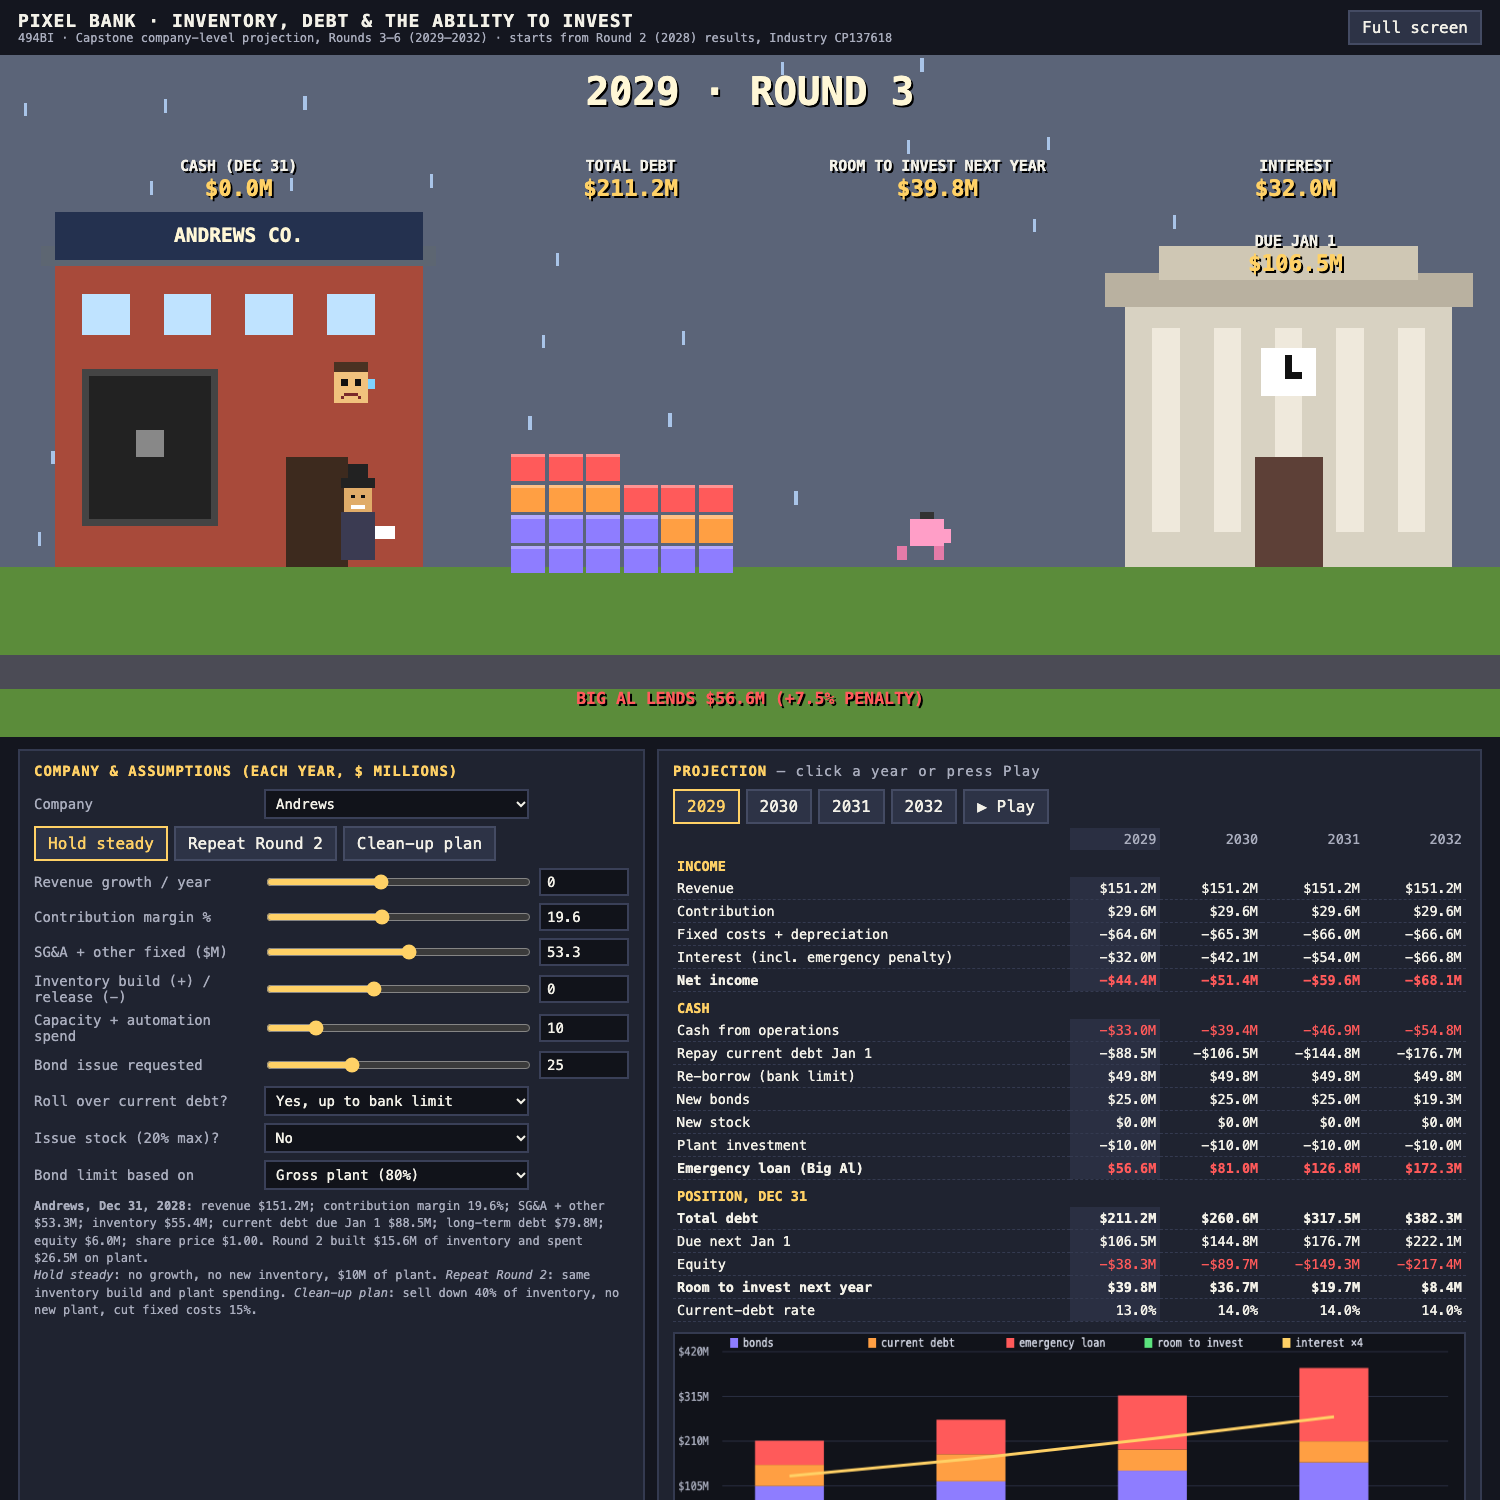
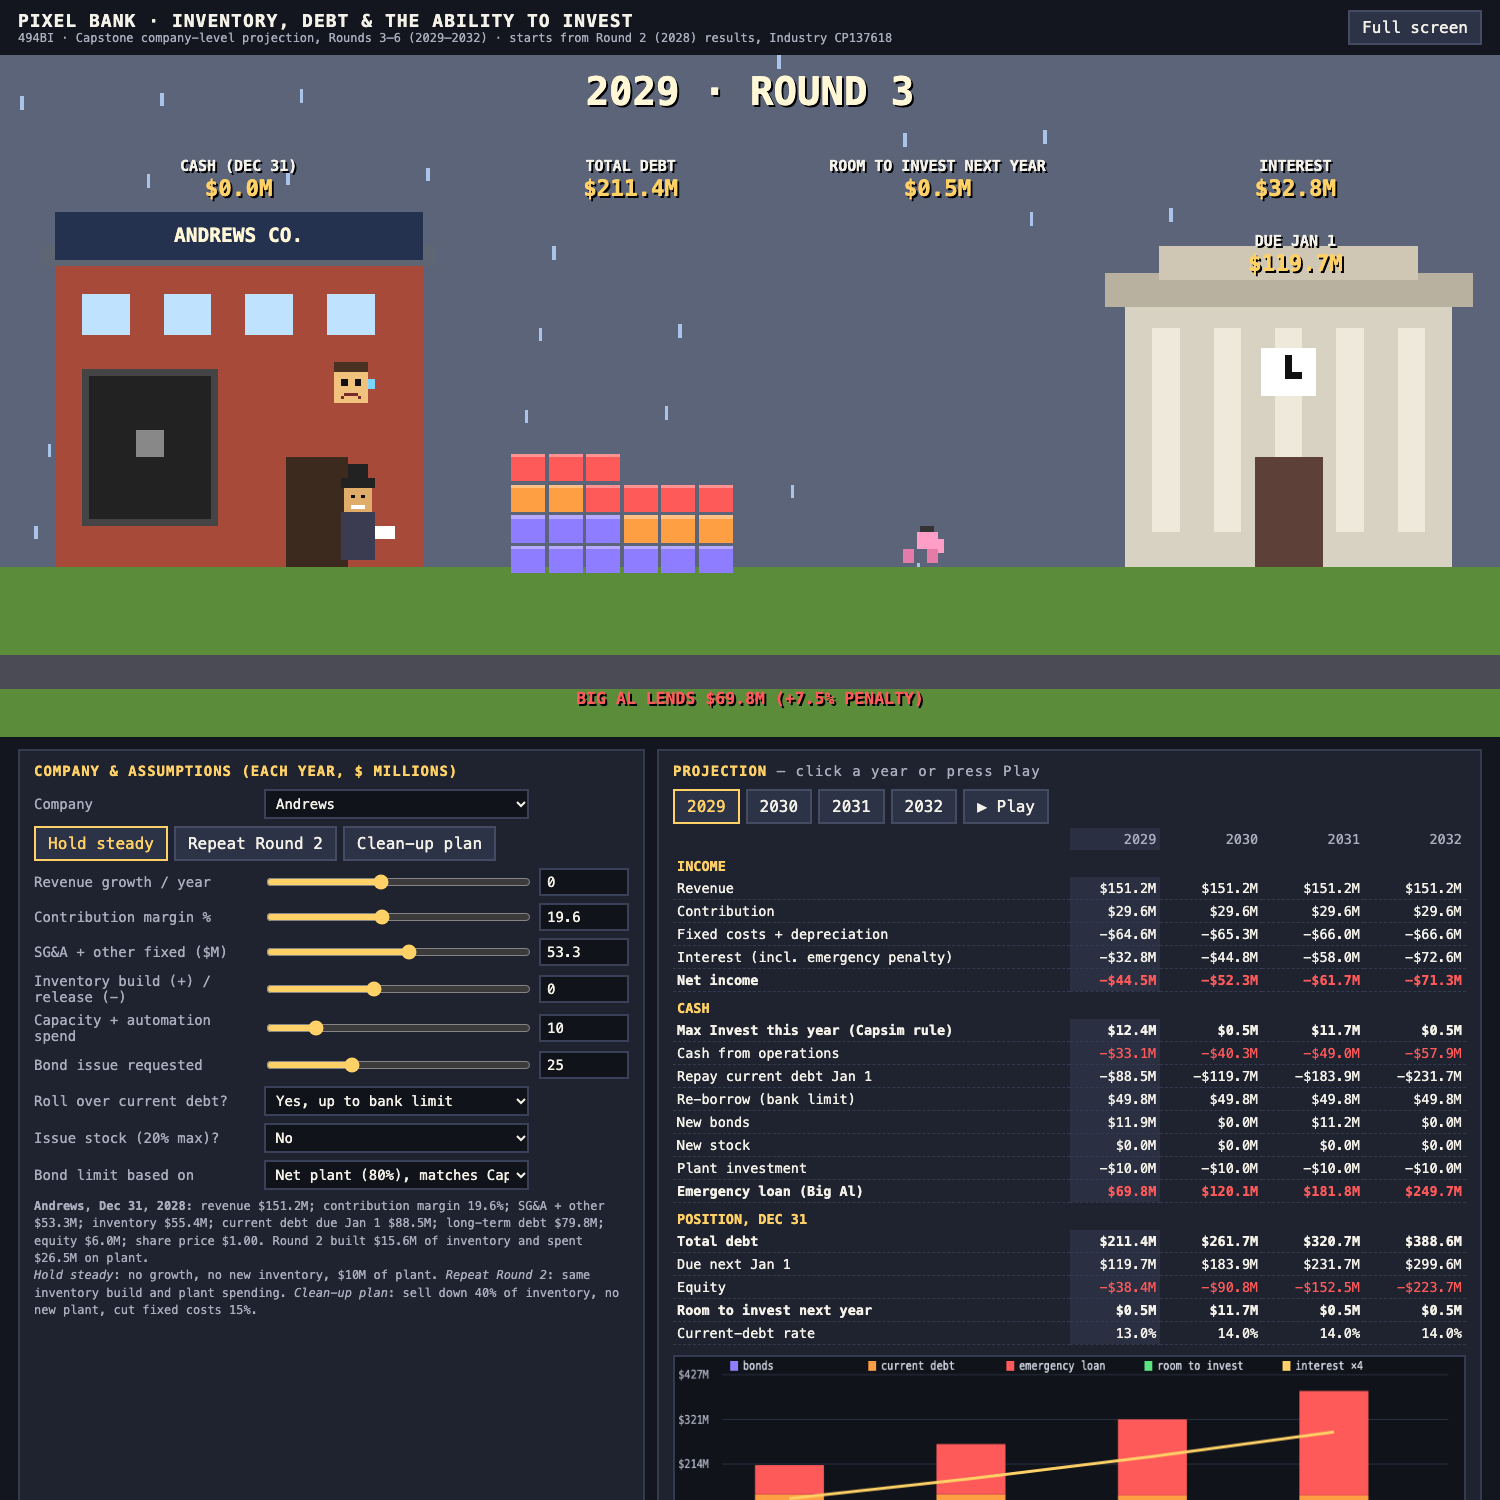
Calibrate Big Al Comes Calling to Capsim Max Invest (net plant basis)

diff --git a/capstone/graphic-simulations/big-al-comes-calling.html b/capstone/graphic-simulations/big-al-comes-calling.html
@@ -74,7 +74,7 @@
     <div class="row"><label>Bond issue requested</label><input type="range" id="bondR" min="0" max="80" step="0.5"><input type="number" id="bond" step="0.5"></div>
     <div class="row"><label>Roll over current debt?</label><select id="roll"><option value="1">Yes, up to bank limit</option><option value="0">No, repay from cash</option></select><span></span></div>
     <div class="row"><label>Issue stock (20% max)?</label><select id="stock"><option value="0">No</option><option value="1">Yes, maximum</option></select><span></span></div>
-    <div class="row"><label>Bond limit based on</label><select id="basis"><option value="gross">Gross plant (80%)</option><option value="net">Net plant (80%)</option></select><span></span></div>
+    <div class="row"><label>Bond limit based on</label><select id="basis"><option value="net">Net plant (80%), matches Capsim</option><option value="gross">Gross plant (80%)</option></select><span></span></div>
     <div class="note" id="startNote"></div>
   </div>
   <div class="card">
@@ -83,8 +83,8 @@
     <table id="tbl"></table>
     <canvas id="chart" width="1000" height="230"></canvas>
     <div class="note">
-      Rules from the Capstone guides: current debt (including any emergency loan) is due January 1; banks lend about 75% of receivables plus 15% of last year's labor and material, plus 20%; bonds up to 80% of plant and equipment (the guide does not say gross or net, so you can toggle), at the current-debt rate + 1.4%; stock issues up to 20% of shares at the current price, less a 5% fee; an emergency loan costs a year of current-debt interest plus a 7.5% penalty and joins next year's current debt. Bond 12.5S2030 ($13.9M) matures December 31, 2030 and becomes current debt.<br>
-      Illustrative simplifications: current-debt rate = 8% prime + up to 6% as debt/assets rises; existing bonds average 12.9%; taxes 35% (credited on losses, as in the Courier); receivable and payable days held at Round 2 levels; share price held at Round 2's close. "Room to invest" = bond room + stock room + cash on hand, an estimate of Capstone's Max Invest, which the decision screen reports exactly.
+      Rules from the Capstone guides: current debt (including any emergency loan) is due January 1; banks lend about 75% of receivables plus 15% of last year's labor and material, plus 20%; bonds up to 80% of plant and equipment net of depreciation, at the current-debt rate + 1.4%; stock issues up to 20% of shares at the current price, less a 5% fee; an emergency loan costs a year of current-debt interest plus a 7.5% penalty and joins next year's current debt. Bond 12.5S2030 ($13.9M) matures December 31, 2030 and becomes current debt.<br>
+      Illustrative simplifications: current-debt rate = 8% prime + up to 6% as debt/assets rises; existing bonds average 12.9%; taxes 35% (credited on losses, as in the Courier); receivable and payable days held at Round 2 levels; share price held at Round 2's close. "Room to invest" follows Capstone's Max Invest: 80% of net plant − long-term debt + 20% of shares × share price + cash on hand. Checked against the Capsim decision screen: Andrews' Round 3 Max Investments shows $12,408K, and 0.8 × $114,623K − $79,750K + 0.2 × 2,297K shares × $1.00 = $12,408K.
     </div>
   </div>
 </div>
@@ -148,6 +148,7 @@ function run() {
     const newBond = Math.min(A.bond, bondRoom) / 1.0;                 // face value; 5% fee expensed below
     const stockRoom = 0.2 * st.shares * s.price * 0.95;
     const newStock = A.stock ? stockRoom : 0;
+    const maxInvest = bondRoom + 0.2 * st.shares * s.price + Math.max(0, st.cash);
     const rev = st.rev * (1 + A.g), vc = rev * (1 - A.cm), dep = st.pe / 15;
     const dInv = Math.max(-st.inv, A.dinv);
     const ar = rev * arDays / 365, ap = vc * apDays / 365;
@@ -170,9 +171,9 @@ function run() {
     const pe = st.pe + A.capex, ad = st.ad + dep, inv = st.inv + dInv, eq = st.eq + ni + newStock;
     const shares = st.shares * (A.stock ? 1.2 : 1);
     const nextBondRoom = Math.max(0, 0.8 * (A.gross ? pe : pe - ad) - ltd);
-    const investRoom = nextBondRoom + 0.2 * shares * s.price * 0.95 + Math.max(0, cash);
+    const investRoom = nextBondRoom + 0.2 * shares * s.price + Math.max(0, cash);
     P.push({ yr, rev, contrib: rev - vc, dep, fix: A.fix, ebit, intr, rate, ni, cfo, capex: A.capex, cdDue, newCD, cdLimit, newBond, bondRoom, newStock, el,
-             cash, cdNext, ltd, debt: cdNext + ltd, eq, inv, dInv, investRoom, matured });
+             cash, cdNext, ltd, debt: cdNext + ltd, eq, inv, dInv, investRoom, matured, maxInvest });
     st = { rev, vc, cash, ar, ap, inv, pe, ad, cd: cdNext, ltd, oldLtd, newLtdRate: st.newLtdRate + bondRate * newBond, eq, shares };
   });
   render();
@@ -188,6 +189,7 @@ function render() {
     ${row("Revenue", q => q.rev)}${row("Contribution", q => q.contrib)}${row("Fixed costs + depreciation", q => -(q.fix + q.dep))}
     ${row("Interest (incl. emergency penalty)", q => -q.intr)}${row("Net income", q => q.ni, cls, "k")}
     <tr class="h"><td colspan="5">CASH</td></tr>
+    ${row("Max Invest this year (Capsim rule)", q => q.maxInvest, null, "k")}
     ${row("Cash from operations", q => q.cfo, cls)}${row("Repay current debt Jan 1", q => -q.cdDue)}${row("Re-borrow (bank limit)", q => q.newCD)}
     ${row("New bonds", q => q.newBond)}${row("New stock", q => q.newStock)}${row("Plant investment", q => -q.capex)}${row("Emergency loan (Big Al)", q => q.el, v => v > 0.05 ? "bad" : "", "k")}
     <tr class="h"><td colspan="5">POSITION, DEC 31</td></tr>

diff --git a/capstone/graphic-simulations/index.md b/capstone/graphic-simulations/index.md
@@ -49,6 +49,6 @@ The presets load Round 2 (2028) results from one of our class industries. Compan
 
 ---
 
-**About the numbers.** The labor, capacity, automation, financing and emergency-loan rules follow the *Capstone* team and administrator guides. Where the guides do not publish an exact formula — the interest-rate curve, the "Max Invest" limit, per-product depreciation — the pages use labeled estimates. They are teaching models for direction and scale, not replicas of the simulation's engine; the Capstone decision screens remain the authority.
+**About the numbers.** The labor, capacity, automation, financing and emergency-loan rules follow the *Capstone* team and administrator guides. Where the guides do not publish an exact formula, the pages use labeled estimates (the interest-rate curve, per-product depreciation). The "Max Invest" limit in *Big Al Comes Calling* was checked against a live Capsim decision screen: 80% of net plant and equipment, less long-term debt, plus 20% of shares at the current share price, plus cash on hand. They are teaching models for direction and scale, not replicas of the simulation's engine; the Capstone decision screens remain the authority.
 
 *Built October 31, 2026, by Matthew D. Langenkamp with Thea.*
